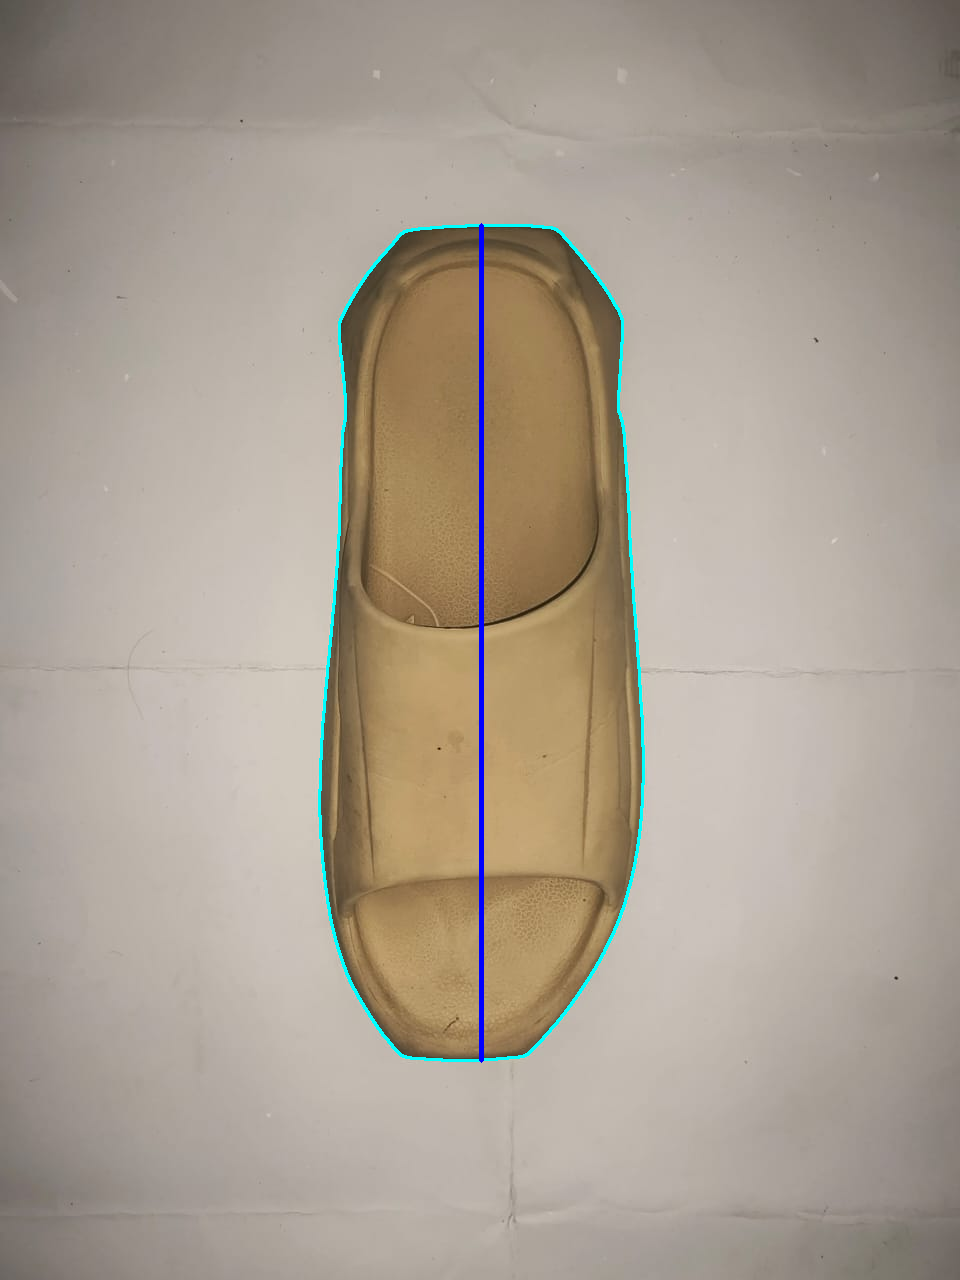
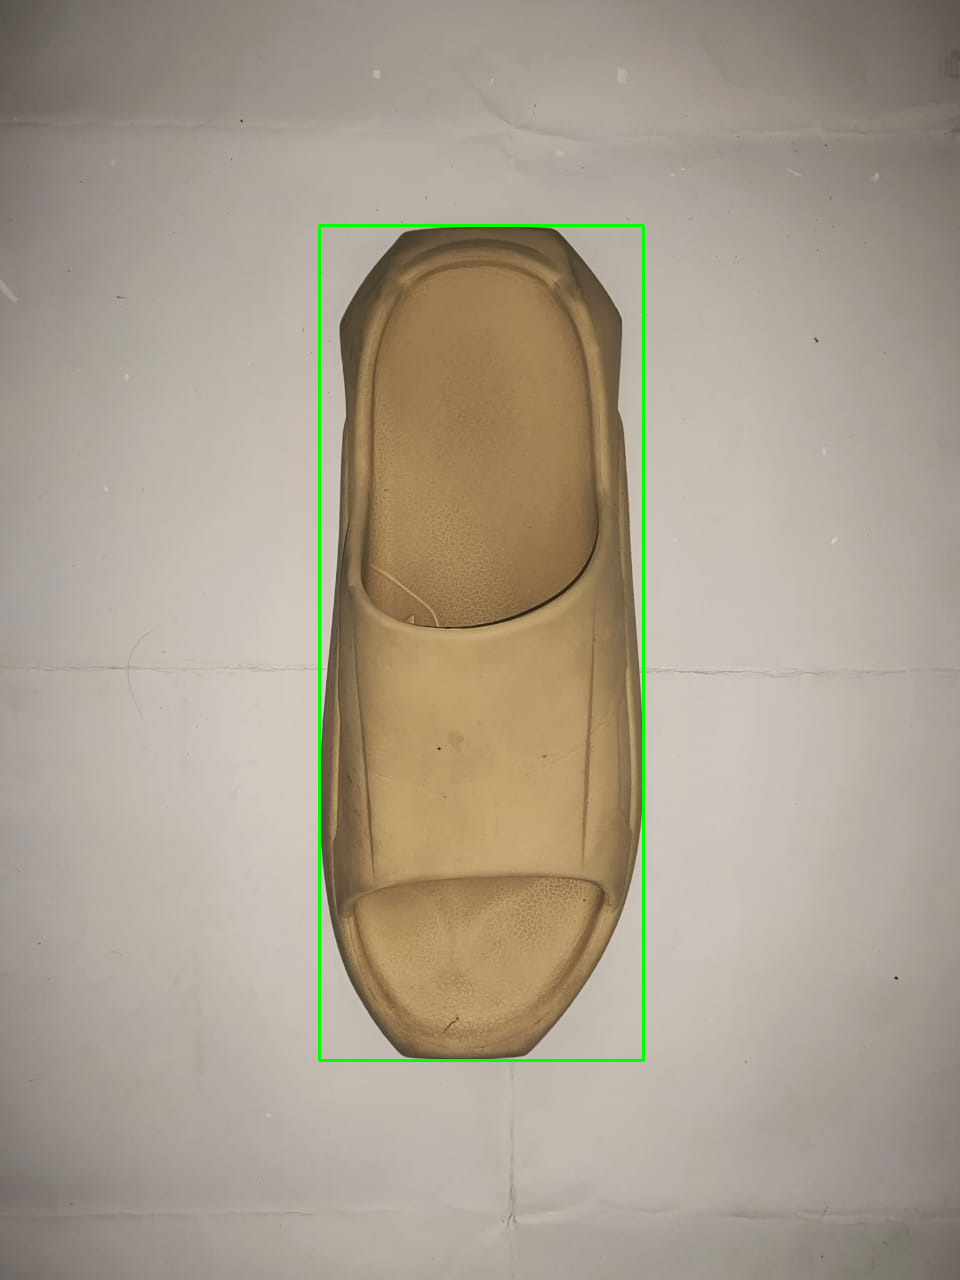
add width measurement

diff --git a/model/measurement.py b/model/measurement.py
@@ -6,17 +6,20 @@ import os
 def endpoints_via_minrect(contour):
     rect = cv2.minAreaRect(contour)
     box = cv2.boxPoints(rect)
-    d1 = np.linalg.norm(box[0] - box[1])
-    d2 = np.linalg.norm(box[1] - box[2])
-    if d1 > d2:
-        px_dist = d1
-        p1 = (box[1] + box[2]) // 2
-        p2 = (box[3] + box[0]) // 2
-    else:
-        px_dist = d2
-        p1 = (box[0] + box[1]) // 2
-        p2 = (box[2] + box[3]) // 2
-    return tuple(p1.astype(int)), tuple(p2.astype(int)), px_dist
+    box = np.intp(box)
+    # d1 = np.linalg.norm(box[0] - box[1])
+    # d2 = np.linalg.norm(box[1] - box[2])
+    # if d1 > d2:
+    #     px_dist = d1
+    #     p1 = (box[1] + box[2]) // 2
+    #     p2 = (box[3] + box[0]) // 2
+    # else:
+    #     px_dist = d2
+    #     p1 = (box[0] + box[1]) // 2
+    #     p2 = (box[2] + box[3]) // 2
+    # return tuple(p1.astype(int)), tuple(p2.astype(int)), px_dist
+    (center), (w, h), angle = rect
+    return box, w, h, angle
 
 def find_largest_contours(mask, num_contours=2):
     cnts, _ = cv2.findContours(mask, cv2.RETR_EXTERNAL, cv2.CHAIN_APPROX_SIMPLE)
@@ -37,11 +40,24 @@ def measure_sandals(path, mm_per_px=None, draw_output=True, save_out=None):
     for i, cnt in enumerate(contours):
         if cv2.contourArea(cnt) < 1000:
             continue
-        p1, p2, px_dist = endpoints_via_minrect(cnt)
-        real_dist = px_dist * mm_per_px if mm_per_px else None
-        cv2.drawContours(out, [cnt], -1, (255,255,0), 2)
-        cv2.line(out, p1, p2, (255,0,0), 3)
-        results.append({'side': i, 'px_dist': float(px_dist), 'real_mm': real_dist})
+        box, w, h, angle = endpoints_via_minrect(cnt)
+        # Tentukan panjang dan lebar
+        px_length = max(w, h)
+        px_width = min(w, h)
+
+        real_length = px_length * mm_per_px if mm_per_px else None
+        real_width = px_width * mm_per_px if mm_per_px else None
+
+        # Gambar bounding box
+        cv2.drawContours(out, [box], 0, (0, 255, 0), 2)
+
+        results.append({
+            # 'side': i,
+            'px_length': float(px_length),
+            'px_width': float(px_width),
+            'real_length_mm': float(real_length) if real_length else None,
+            'real_width_mm': float(real_width) if real_width else None
+        })
 
     if draw_output:
         display_resized(out, max_height=800)
